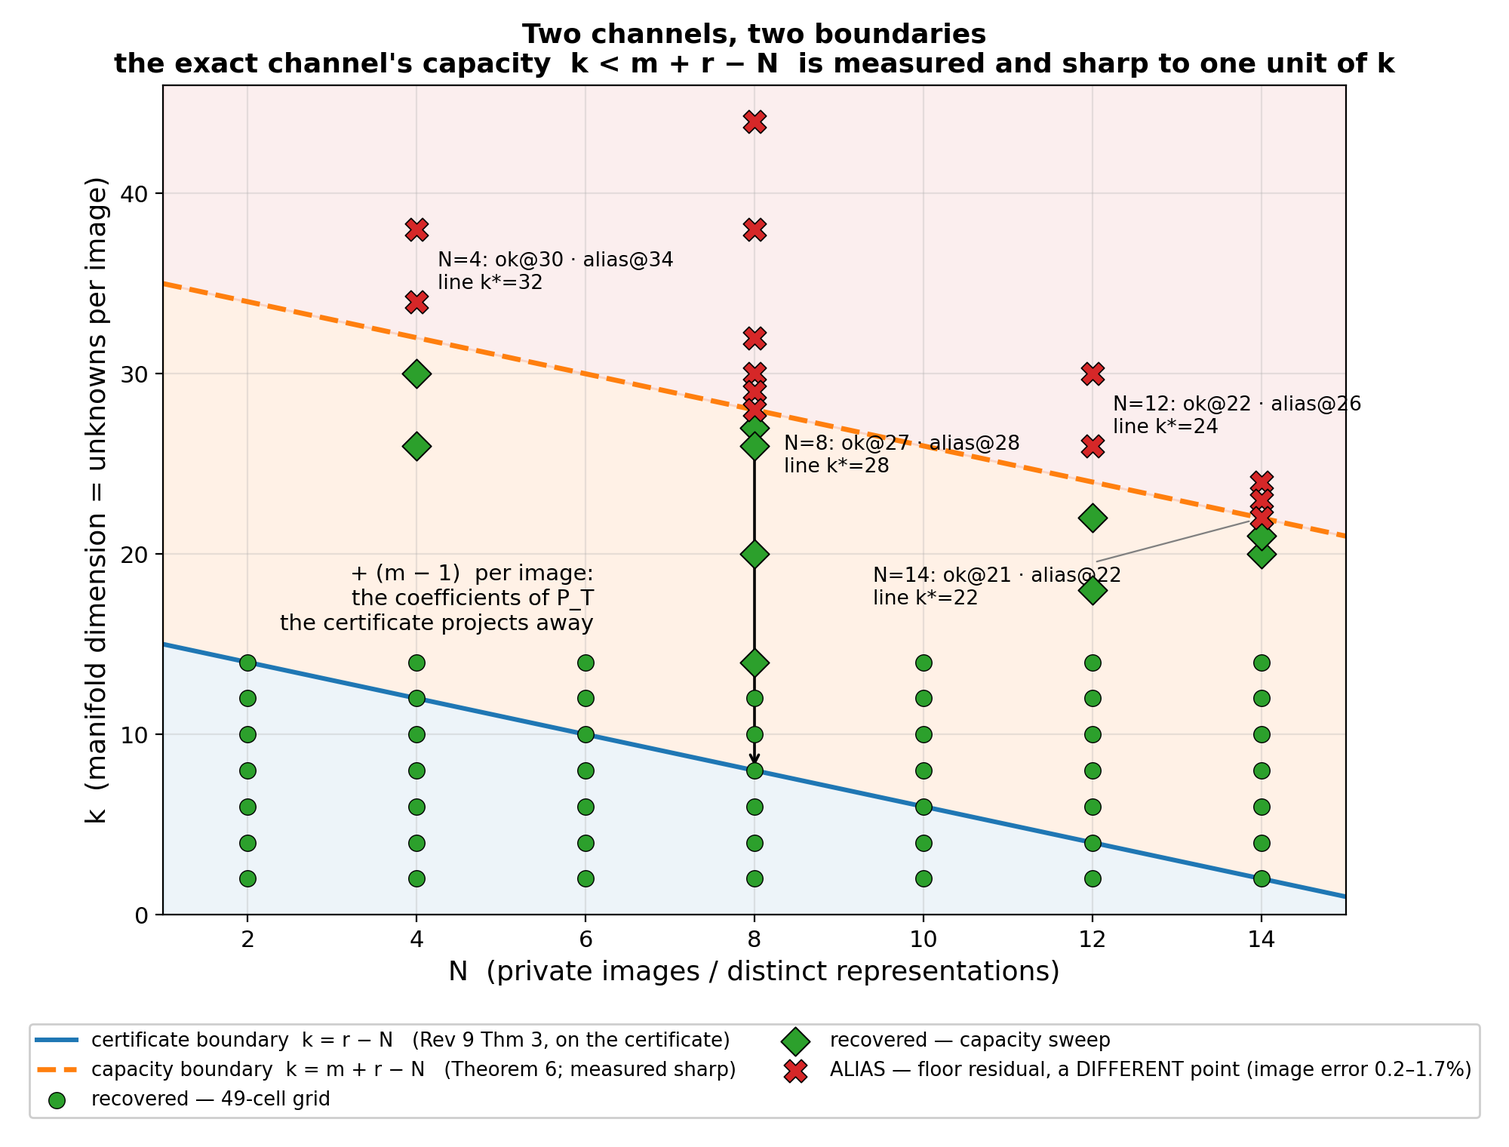
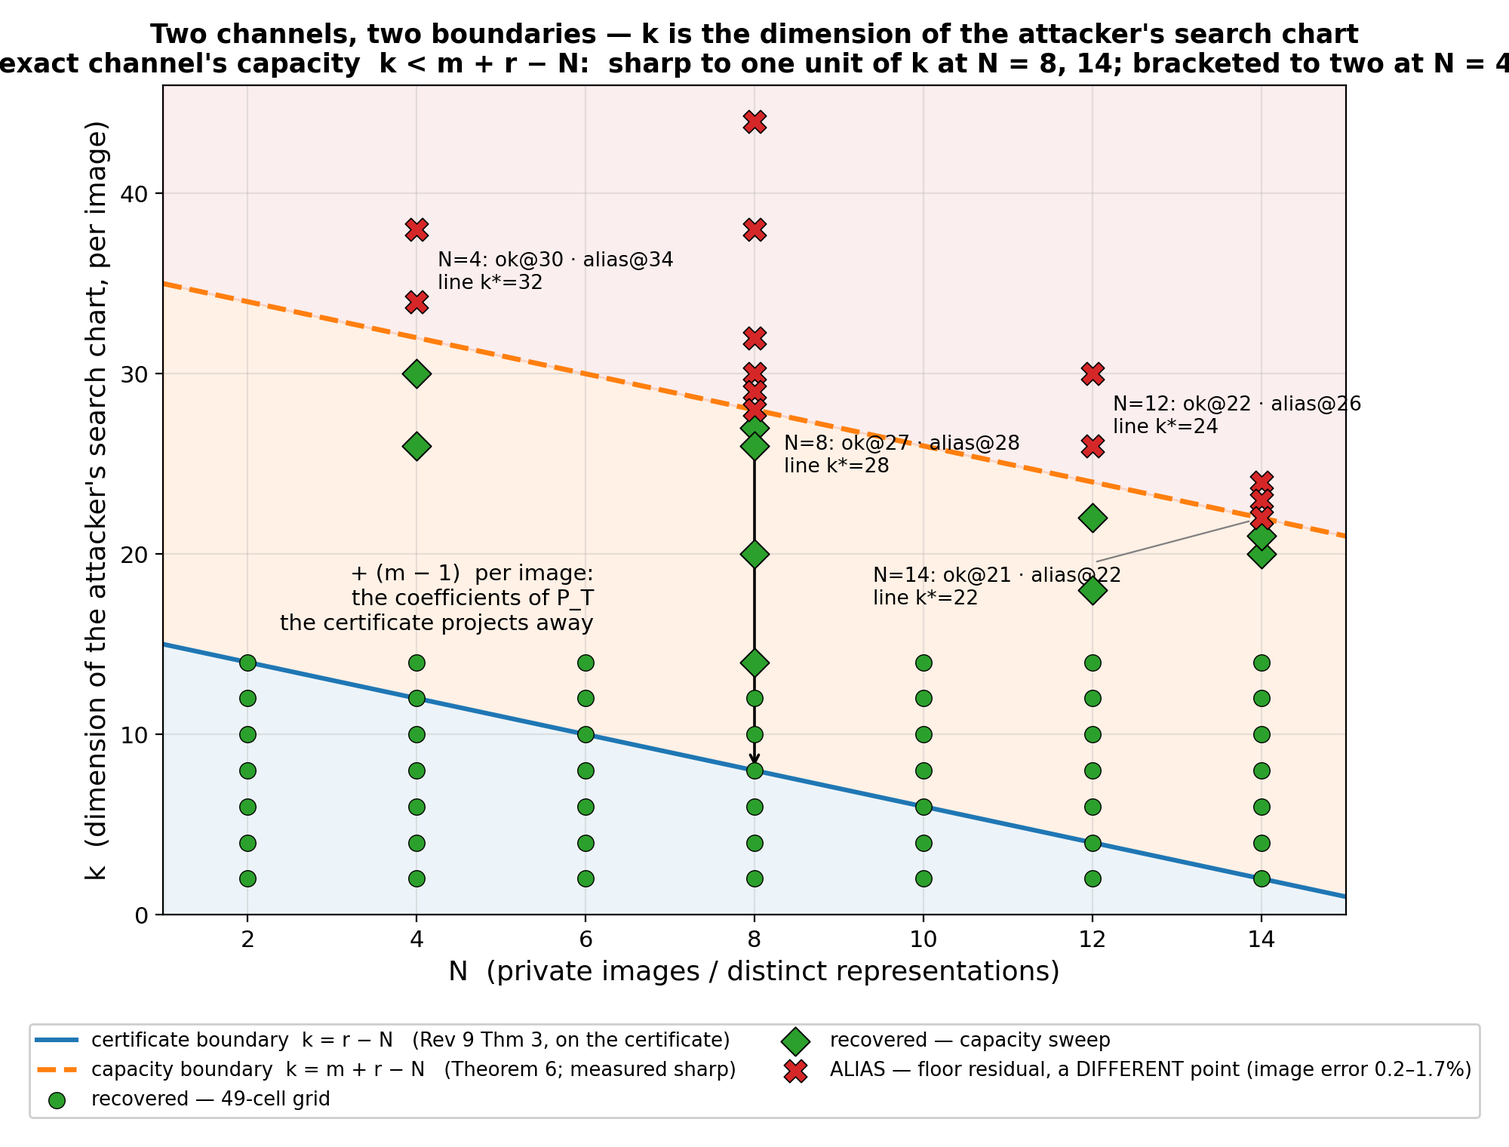
Rev 10 delta: user's read -- R4 scoped to continued-training access (weights-only release keeps R1-R3 only); sharpness scoped to N=8,14 (bracketed at N=4,12); k = dimension of the attacker's search chart stated at the top and on figure 2; digit-spanning chart labelled oracle-built; Corollary for a g

Changed region(s): [[0.0, 0.0, 1.0, 0.0618], [0.062, 0.1237, 0.093, 0.5566], [0.062, 0.5875, 0.093, 0.7421]]

diff --git a/notes/exact_channel_rev10.tex b/notes/exact_channel_rev10.tex
@@ -40,7 +40,10 @@
 \label{sec:exact-channel}
 
 A released LoRA adapter is a deterministic function of the private data, the
-public recipe and the random initialisation. This section writes that
+public recipe and the random initialisation. Throughout, $k$ is the
+dimension of the chart the attacker searches in — the coordinates $w$ of
+Definition~\ref{def:setup} — not an intrinsic dimension of the images; every
+count below is a count of those coordinates. This section writes that
 function out (Theorem~\ref{thm:traj}), shows that the initialisation enters
 it only through $rN$ numbers (Corollary~\ref{cor:seed}), and then reads the
 same function in two ways: projecting the initialisation away gives Rev~9's
@@ -428,6 +431,50 @@ of Definition~\ref{def:setup}: the unknown is $w$, the theorems pin $w$, and
 the attack returns $\psi(\hat w)$. Nothing in them constrains the chart
 $\psi$, which is the attacker's to choose.
 
+\begin{corollary}[the count for a general adapted layer]\label{cor:general}
+The proof of Theorem~\ref{thm:cap} uses only that the simulated $B_T$ has
+rank at most $\min(N,r)$ and, under a softmax head, zero column sums; it
+does not use what the layer computes downstream. Hence, with $m$ the output
+width of the adapted layer, the necessary condition on the chart dimension
+reads
+\begin{center}\small
+\begin{tabular}{@{}lll@{}}\toprule
+channel & $N\le r$ & $N\ge r$\\ \midrule
+certificate (Theorem~\ref{thm:quot}) & $k<r-N$ & — (no certificate)\\
+exact, softmax head & $k<m+r-N$ & $k\le (m-1)r/N$\\
+exact, any other head & $k<m+r-N+1$ & $k\le mr/N$\\ \bottomrule
+\end{tabular}
+\end{center}
+\end{corollary}
+\begin{proof}
+For $N\le r$ replace $\mathcal B$ by the rank-$N$ matrices in
+$\mathbb R^{m\times r}$ (dimension $N(m+r-N)$) when there is no column-sum
+constraint. For $N\ge r$, $B_T=P_T(A_0H)^{\!\top}$ has rank $r$ and ranges
+over all of $\mathbb R^{m\times r}$ (or its $(m-1)r$-dimensional
+column-sum-zero subspace), while Corollary~\ref{cor:seed} still reduces the
+seed to $X\in\mathbb R^{r\times N}$; the count is $mr+rN\ge Nk+rN$
+(resp.\ $(m-1)r+rN\ge Nk+rN$). The two regimes agree at $N=r$.
+\end{proof}
+This is the realistic picture for a transformer: the first adapted
+projection has $m$ equal to the layer's output width, hundreds to thousands
+of coordinates per representation, against $r-N$ for the certificate; and
+once $N$ exceeds $r$ — tokens, not images — the budget per representation is
+$mr/N$. The $N\ge r$ regime is derived here and untested; every measurement
+in \S\ref{sec:measured} has $N<r$.
+
+\paragraph{Eliminating the seed in closed form.} By Corollary~\ref{cor:seed}
+the coefficients depend on $X$ only through the Gram $S:=X^{\!\top}X\in
+\mathrm{Sym}^+_N$, so $\Omega=\Omega(w,S)$, and the second block of
+\eqref{eq:rho} solves for $X$ outright: $X=A_TU_c(w)\,\Omega(w,S)^{-1}$
+wherever $\Omega$ is invertible. Substituting into the first block and
+adding the consistency condition $X^{\!\top}X=S$ leaves unknowns
+$(w,S)\in\mathbb R^{Nk}\times\mathrm{Sym}_N$ — $Nk+N(N+1)/2$ numbers, $36$
+in place of $rN=128$ at $N=8$, $r=16$ — against $\dim\mathcal B+N(N+1)/2$
+equations: the same capacity, a search space smaller by $rN-N(N+1)/2$. Since
+\S\ref{sec:opens} finds the initialiser, not the information, to be what
+stops the attack, this is the first thing to implement; it is derived here
+and not yet run.
+
 %----------------------------------------------------------------------------
 \subsection{What was measured}
 \label{sec:measured}
@@ -451,7 +498,8 @@ $5.3\times10^{-16}$--$1.8\times10^{-15}$\textsuperscript{$\dagger$} ($B$ and $A$
 $54$ rows; jobs 395496, 396214, 396216--21). Every number
 below rests on this one.
 
-\paragraph{The line of Theorem~\ref{thm:cap} is sharp to one unit of $k$.}
+\paragraph{The line of Theorem~\ref{thm:cap}: sharp to one unit of $k$ at
+$N=8,14$, bracketed to two at $N=4,12$.}
 \begin{center}\small
 \begin{tabular}{@{}rcccc@{}}\toprule
 $N$ & $k^\star=m+r-N$ & last $k$ identifiable ($\sigma_{\min}$) & first $k$ collapsed ($\sigma_{\min}$) & jobs\\ \midrule
@@ -463,7 +511,9 @@ $N$ & $k^\star=m+r-N$ & last $k$ identifiable ($\sigma_{\min}$) & first $k$ coll
 \end{center}
 At $N=8$ and $N=14$ the transition is one unit of $k$, on the outcome
 (recovered at $k^\star-1$, alias at $k^\star$) and on $\sigma_{\min}$, which
-drops eleven to twelve orders across that unit; it lands on $k=m+r-N$, the strict form
+drops eleven to twelve orders across that unit; at $N=4$ and $N=12$ the
+tested cells straddle $k^\star$ by two on each side, so the line is
+bracketed there, not resolved; it lands on $k=m+r-N$, the strict form
 that Proposition~\ref{prop:simplex} derives.\footnote{At the collapsed cells
 $\sigma_{\min}\approx10^{-19}$ against $\sigma_{\max}\sim1$ is the FP64
 floor: the measurement shows the smallest singular value falling to the
@@ -533,19 +583,20 @@ which the next paragraph shows is the whole question.
 \paragraph{The boundary is about the chart, not the image.} Same digits,
 same $N=8$, $m=10$, $r=16$, line $k<18$; three charts at matched $k$\textsuperscript{$\dagger$}
 (job 574169): the principal subspace (PCA), the same subspace under a
-non-linear warp, and a chart built to contain the eight private digits
-exactly. Two predictions of Theorems~\ref{thm:cap}--\ref{thm:suff} come
+non-linear warp, and an \emph{oracle-built} chart constructed from the eight
+private digits themselves so that it contains them exactly — a control on
+what the count can and cannot see, not an attack. Two predictions of Theorems~\ref{thm:cap}--\ref{thm:suff} come
 apart:
 \begin{center}\small
 \begin{tabular}{@{}llccc@{}}\toprule
 $k$ & chart & $\sigma_{\min}$ & error vs.\ own image & error vs.\ real digit\\ \midrule
 17 (below) & PCA & $2.2\times10^{-5}$ & $7.2\times10^{-14}$ & $0.510$\\
            & warped & $2.2\times10^{-5}$ & $5.9\times10^{-14}$ & $0.510$\\
-           & contains the digits & $5.7\times10^{-5}$ & $5.7\times10^{-14}$ & $5.7\times10^{-14}$\\
+           & oracle-built (spans the digits) & $5.7\times10^{-5}$ & $5.7\times10^{-14}$ & $5.7\times10^{-14}$\\
 18 (at)    & PCA & $5.6\times10^{-18}$ & $2.9\times10^{-2}$ & $0.500$\\
            & warped & $5.3\times10^{-18}$ & $2.9\times10^{-2}$ & $0.500$\\
-           & contains the digits & $5.7\times10^{-18}$ & $1.8\times10^{-2}$ & $1.8\times10^{-2}$\\
-8 (far below) & contains the digits & $6.2\times10^{-4}$ & --- & $9.5\times10^{-15}$\\
+           & oracle-built (spans the digits) & $5.7\times10^{-18}$ & $1.8\times10^{-2}$ & $1.8\times10^{-2}$\\
+8 (far below) & oracle-built (spans the digits) & $6.2\times10^{-4}$ & --- & $9.5\times10^{-15}$\\
            & PCA & $2.0\times10^{-4}$ & --- & $0.617$\\ \bottomrule
 \end{tabular}
 \end{center}
@@ -561,9 +612,11 @@ $\psi(\hat w)$; how close that is to the private image depends entirely on
 whether the chart can represent it. The capacity law bounds the
 \emph{dimension of the search}, not the fraction of the image an attacker
 can reach, and it cannot be read as a leakage bound: nothing constrains the
-attacker's chart to be data-agnostic, and one spanning the private images
-plus filler has $k=N=8$, sits far below the line, and returns them at
-$10^{-14}$ (last rows). What the boundary limits is the search space, and
+attacker's chart to be data-agnostic, and the oracle-built chart — which
+spans the private images and so has $k=N=8$, far below the line — returns
+them at $10^{-14}$ (last rows); an attacker does not have that chart, and
+what the row shows is what a chart that happened to contain the images would
+give. What the boundary limits is the search space, and
 the search space is the attacker's to choose — which is the counting
 argument handing the generative-prior direction of Rev~9 its role: a prior
 is a chart-builder (Figure~\ref{fig:chart}).
@@ -573,8 +626,8 @@ is a chart-builder (Figure~\ref{fig:chart}).
 \caption{Chart dependence at $k=17$, one unit below the line (job 574169).
 Rows: the real digit; what each chart can represent at all; what the attack
 returned, with the error against the real digit. Every chart is recovered
-exactly in its own coordinates; only the chart that contains the digits
-returns the digits.}\label{fig:chart}
+exactly in its own coordinates; only the oracle-built chart, constructed
+from the digits, returns the digits.}\label{fig:chart}
 \end{figure}
 
 \paragraph{Past the line: what the alternative point is.} On the synthetic
@@ -665,10 +718,14 @@ read block by block. The Adam spectrum is $\sim\!400\times$ wider at equal
 shape: worse conditioning, not lost identifiability.}\label{fig:spectrum}
 \end{figure}
 
-\paragraph{The recipe need not be handed to the attacker.} Definition~\ref{def:rho}
-takes $(\eta,s,T)$ and the labels as known. Four measurements$^\dagger$ at
-$k=12$, $N=8$, $T=400$, $\eta=0.01$ (job 484255) show that they can be
-checked, fitted, and in part read off instead.
+\paragraph{How much of the recipe the release itself gives up.}
+Definition~\ref{def:rho} takes $(\eta,s,T)$ and the labels as known. Under a
+\emph{weights-only} release — the attacker has $(A_T,B_T)$, $W_0$, $\varphi$,
+$\psi$ and nothing else — three measurements$^\dagger$ at $k=12$, $N=8$,
+$T=400$, $\eta=0.01$ (job 484255) show that a wrong recipe is detected (R1)
+and that $\eta$, the $(\eta,T)$ split and the labels are fitted from the
+release alone (R2, R3). A fourth (R4) needs more access and is scoped as
+such.
 
 \emph{(R1) None of seven wrong recipes reached the floor.} With the control first:
 \begin{center}\small
@@ -709,12 +766,18 @@ $0.1$--$0.7\%$. Labels: the true assignment reaches the floor
 ($7.2\times10^{-31}$); swapping two examples ($2.5\times10^{-3}$) or shifting
 all of them ($7.5\times10^{-6}$) does not.
 
-\emph{(R4) A decaying schedule leaks the step count that a constant one
-hides.} The \emph{probe}: the attacker continues training the released
-adapter on a batch of their own choosing, $H_p=\varphi(\psi(W_p))$ with
-labels they choose, so every regressor is computable from $(A_T,B_T)$ and the
-public $W_0$ and no private data enters. One step under decoupled weight
-decay is $\Delta B=-\eta\nabla_BL-\eta\,\mathrm{wd}\,B_T$, linear in
+\emph{(R4) With continued-training access, a decaying schedule leaks the
+step count that a constant one hides.} This result assumes an access model
+the others do not: the attacker submits a batch of their own choosing,
+$H_p=\varphi(\psi(W_p))$ with labels they choose, and observes the
+\emph{victim's} training process take one more step on it with its hidden
+$\eta$, weight decay and scheduler state — a checkpoint that includes
+optimiser and scheduler state, or a fine-tuning service that continues the
+job. An attacker who runs the step themselves sets $\eta$ and learns nothing;
+under weights-only release (R4) does not apply, and neither the schedule nor
+$T$ is recoverable by it. Within that access model no private data enters:
+every regressor is computable from $(A_T,B_T)$, $W_0$ and the probe batch.
+One step under decoupled weight decay is $\Delta B=-\eta\nabla_BL-\eta\,\mathrm{wd}\,B_T$, linear in
 $(\eta,\eta\,\mathrm{wd})$: the two-parameter least squares returns $\eta$ to
 $5\times10^{-16}$ and $\mathrm{wd}=10^{-3},10^{-2}$ to $10^{-11}$ relative
 (job 487290), and
@@ -726,7 +789,9 @@ global fit of $(\text{base},T_{\max},T)$ to six probe steps (eliminate the
 base by ratios, grid the two integers, solve the base in closed form) returns
 all three exactly — $T=400$, $T_{\max}=1000$, base $0.0100$ — and identically
 from windows of $20$, $60$ and $150$ steps (the probed values are job
-488314's). A schedule encodes position on its own curve.\footnote{A gradient
+488314's). A schedule encodes position on its own curve — and with checkpoint access
+$T$ is usually in the metadata anyway, so the content of (R4) is the
+fine-tuning-service case.\footnote{A gradient
 fit of the same three parameters had landed $30$--$40\%$ off and was
 retracted; it was a local minimum of a multimodal objective, not a
 degeneracy. The global fit is a re-analysis of the saved probe values,
@@ -758,10 +823,12 @@ re-derivation, and each is itemised in the repository's lessons log.
   \emph{without} the private images — a population prior — and how far below
   the line it lands; that is the generative-prior direction, now with a
   precise specification.
-\item \textbf{The recipe family.} What \S\ref{sec:measured} leaves open is
-  the \emph{family}: the schedule fit assumes cosine, and choosing among
-  families is model selection, which the floor test of (R1) would presumably
-  rank but which has not been run. The count \eqref{eq:cap} bounds the recipe
+\item \textbf{The recipe family, and the access model.} What
+  \S\ref{sec:measured} leaves open is the \emph{family}: the schedule fit
+  assumes cosine, and choosing among families is model selection, which the
+  floor test of (R1) would presumably rank but which has not been run; and
+  (R4) holds only under continued-training access — under weights-only
+  release the schedule and $T$ are not recovered by anything here. The count \eqref{eq:cap} bounds the recipe
   as it bounds the data: $p$ unknown recipe scalars are identifiable only if
   $p\le N\bigl((m-1)+r-N\bigr)-Nk$, which is $120$ at the standard cell. A
   parametric schedule ($p=2$--$4$) sits far inside; a free per-step sequence
@@ -811,11 +878,11 @@ re-derivation, and each is itemised in the repository's lessons log.
 level & content & status\\ \midrule
 2$'$. Seed & $(B_T,A_TU)$ depend on $A_0$ only through $X$; $Y$ released verbatim (Cor.~\ref{cor:seed}) & Theorem under (A1)--(A3)\\
 3$'$. Capacity & $k<m+r-N$, strict, from $\dim\mathcal B$ (Thm~\ref{thm:cap}, Prop.~\ref{prop:simplex}) & Theorem; sharp$^\dagger$ at $N=8,14$ synthetic and at $r=8,16,32$ on MNIST; exact identifiability of the chart coordinates\\
-3$'''$. Chart & boundary chart-independent; fidelity chart-dependent ($0.51$ vs $5.7\times10^{-14}$ at $k=17$); a chart containing the digits recovers them at $k=N$ & Verified$^\dagger$ (job 574169); not a leakage bound\\
+3$'''$. Chart & boundary chart-independent; fidelity chart-dependent ($0.51$ vs $5.7\times10^{-14}$ at $k=17$); an oracle-built chart spanning the digits recovers them at $k=N$ & Verified$^\dagger$ (job 574169); not a leakage bound\\
 3$''$. Sufficiency & $D\rho$ full column rank a.e.\ below the line, per connected component (Thm~\ref{thm:suff}) & Theorem given a witness in the component; witness measured$^\dagger$ at $T=1$; $T>1$ rests on measured $T$-independence, not on a proof\\
 5$'$. Past the line & a walkable manifold of exact reproductions; alternatives at $0.2$--$1.7\%$ (synthetic, chart contains the truth), $2$--$7\%$ on real digits, growing with distance past the line; $\le3.8\%$ along one walked direction & Verified$^\dagger$; recognisability not assessed; extent and global uniqueness open\\
 7$'$. Adam & identifiable; seed $rn$; $\kappa\uparrow$; basin$\downarrow$; simplex constraint broken & Verified$^\dagger$; one-unit-higher line predicted, untested\\
-8$'$. Recipe & none of seven wrong recipes at the floor (one cell, one seed); $\eta$ fitted jointly; $\eta T$ split identifiable; labels identifiable; cosine schedule leaks $T$ & Verified$^\dagger$ (jobs 484255, 485912, 487290, 488314) except the schedule fit, whose script is not yet committed; family selection open\\ \bottomrule
+8$'$. Recipe & weights-only: none of seven wrong recipes at the floor (one cell, one seed); $\eta$ fitted jointly; $\eta T$ split identifiable; labels identifiable. Continued-training access only: cosine schedule leaks $T$ & Verified$^\dagger$ (jobs 484255, 485912, 487290, 488314) except the schedule fit, whose script is not yet committed; family selection open\\ \bottomrule
 \end{tabular}
 \end{center}
 
@@ -827,8 +894,9 @@ In this order: the law, because it is a theorem with a derivation and a sharp
 measurement, on synthetic data and on digits; the chart, because it is what
 the law means; the walk, because it turns the law into a set one can move
 along; the initialiser, because it is what stops the attack today; the
-recipe, because ``the attacker must be handed it'' did not survive
-measurement. Not the $49/49$ grid first: it lies inside the capacity
+recipe, because under weights-only release $\eta$, the $(\eta,T)$ split and
+the labels are fitted from the release and a wrong recipe is detected, while
+the schedule needs continued-training access. Not the $49/49$ grid first: it lies inside the capacity
 region and measures existence, not rate.
 \begin{enumerate}\itemsep2pt
 \item \emph{The chain.} Theorem~\ref{thm:traj} writes the adapter's
@@ -841,14 +909,15 @@ region and measures existence, not rate.
   — and $A_TU_c$ pays exactly for $X$. So $k<m+r-N$ (Theorem~\ref{thm:cap}),
   $m-1$ per image above the certificate, and the difference is precisely the
   coefficient matrix the certificate projects away (Corollary~\ref{cor:two}).
-  Measured sharp to one unit of $k$ at two values of $N$ synthetically and
-  at three ranks on real digits; both terms of the cap attained by the block
+  Measured sharp to one unit of $k$ at $N=8,14$ synthetically (bracketed to
+  two at $N=4,12$) and at three ranks on real digits; both terms of the cap attained by the block
   ranks.
 \item \emph{The chart.} The theorems pin the coordinates $w$; the attack
   returns $\psi(\hat w)$. At the same $k=17$, three charts each recover their
   own image to $10^{-14}$ and differ by thirteen orders against the real
-  digit; a chart containing the digits recovers them at $k=N$, far below the
-  line. The law bounds the dimension of the search, not the image reached,
+  digit; an oracle-built chart spanning the digits recovers them at $k=N$,
+  far below the line. The law bounds the dimension of the search, not the
+  image reached,
   and the search space is the attacker's to choose: the counting gives the
   generative prior its job.
 \item \emph{The walk.} Past the line the truth is not isolated
@@ -866,14 +935,14 @@ region and measures existence, not rate.
 \item \emph{What stops the attack.} Not information: the initialiser
   (none of $20$ attacker-buildable starts reaches the floor; from perturbed
   truth the solver recovers up to $86\%$ away).
-\item \emph{The recipe.} None of seven wrong recipes reached the floor —
-  one step in four hundred is twenty-three orders away — so the residual
-  checks it;
+\item \emph{The recipe.} Under weights-only release: none of seven wrong
+  recipes reached the floor — one step in four hundred is twenty-three orders
+  away — so the residual checks it;
   $\eta$ fits jointly with the data to machine precision; $\eta T$ is not a
-  degeneracy of discrete steps; labels are identifiable; and a decaying
-  schedule of known family hands over $T$ from six probe steps on the
-  attacker's own data. What the count leaves the defender is a free per-step
-  schedule with $T>120$.
+  degeneracy of discrete steps; labels are identifiable. Only with continued-training access (a checkpoint
+  with optimiser state, or a fine-tuning service) does a decaying schedule of
+  known family hand over $T$ from six probe steps. What the count leaves the
+  defender is a free per-step schedule with $T>120$.
 \item \emph{Open.} The schedule family (model selection, not run); global
   uniqueness; direction dependence of the manifold's extent; Adam, which keeps
   identifiability, loses the $rN$ reduction, destroys the certificate, and is

diff --git a/scripts/rev10_figs/fig_counting_plane.py b/scripts/rev10_figs/fig_counting_plane.py
@@ -47,8 +47,8 @@ ax.annotate("",xy=(8,M+R-8),xytext=(8,R-8),arrowprops=dict(arrowstyle="<->",colo
 ax.text(6.1,17.5,"+ (m − 1)  per image:\nthe coefficients of P_T\nthe certificate projects away",fontsize=10.5,va="center",ha="right")
 ax.set_xlim(1,15); ax.set_ylim(0,46)
 ax.set_xlabel("N  (private images / distinct representations)",fontsize=13)
-ax.set_ylabel("k  (manifold dimension = unknowns per image)",fontsize=13)
-ax.set_title("Two channels, two boundaries\nthe exact channel's capacity  k < m + r − N  is measured and sharp to one unit of k",fontsize=13,fontweight="bold")
+ax.set_ylabel("k  (dimension of the attacker's search chart, per image)",fontsize=13)
+ax.set_title("Two channels, two boundaries — k is the dimension of the attacker's search chart\nthe exact channel's capacity  k < m + r − N:  sharp to one unit of k at N = 8, 14; bracketed to two at N = 4, 12",fontsize=12.5,fontweight="bold")
 ax.tick_params(labelsize=11); ax.grid(alpha=0.3)
 ax.legend(fontsize=9.3,loc="upper center",bbox_to_anchor=(0.5,-0.12),ncol=2,framealpha=0.95)
 out=os.path.join("figures/rev10","fig_counting_plane.png")

diff --git a/STATUS.md b/STATUS.md
@@ -27,6 +27,12 @@ What the section establishes, in order — every label as in the .tex:
 - **Adam:** identifiable, nuisance `rn`, `κ ≈ 8e5` vs `2e3`; breaks the simplex constraint (†`2.6–2.7` vs `1e-15`)
   so its B-block saturates the *plain* cap 224. **PREDICTION (untested as a boundary):** Adam's line is one unit
   higher than SGD's at the same `(m,r,N)`.
+- **User read of the PDF applied:** (R4) rescoped to CONTINUED-TRAINING ACCESS (checkpoint with optimizer state or a
+  fine-tuning service) — under weights-only release only R1–R3 hold and the schedule/T are not recovered; "sharp to one
+  unit" scoped to N=8,14 (bracketed to two at N=4,12); k stated everywhere as the dimension of the attacker's search
+  chart; the digit-spanning chart labelled ORACLE-BUILT; two derived-untested additions: Corollary (count for a general
+  adapted layer: k < m+r−N+1 without softmax, k ≤ mr/N for N ≥ r) and the Q-parametrisation (seed unknowns
+  N(N+1)/2 = 36 instead of rN = 128, same capacity).
 - **Subagent audit applied:** the R1 residual is NOT monotone in recipe error (η×2 < η/2; T+25% is 18× below T−25%) — 'graded
   objective' withdrawn; (14,21) reached the floor by a 300-iteration budget (137 used, 1 restart), not by six restarts;
   every capacity/alias/recipe cell is one seed from truth+10% noise and the .tex now says so; the schedule global fit

diff --git a/LESSONS_LEARNED.md b/LESSONS_LEARNED.md
@@ -93,6 +93,13 @@ degradation splits by N (the defender's variable), not by distance past the line
 N=8 stays inside tolerance sixteen units past the line, N=12/14 are outside one unit past; and every past-line
 error is a lower bound on the fibre's extent (near-init finds the nearest branch; walks stopped by budget).
 
+**10. State the access model with every result.** The recipe probe (R4) was internally valid — no private data,
+every regressor public — and still presupposed an access model the release does not give: the attacker must
+observe the *victim's* optimizer take a step on attacker-chosen data (a checkpoint with optimizer/scheduler state,
+or a fine-tuning service). An attacker who runs the step themselves sets η and learns nothing. Under weights-only
+release only R1–R3 apply; the schedule and T are not recovered. Caught by the user on reading the PDF, not by any of
+the four audits, all of which checked the numbers against the rows and none of which asked who takes the step.
+
 ---
 
 ## `k` is a property of the chart, not of the data — do not read a dimension bound as a privacy bound (2026-09-03)
